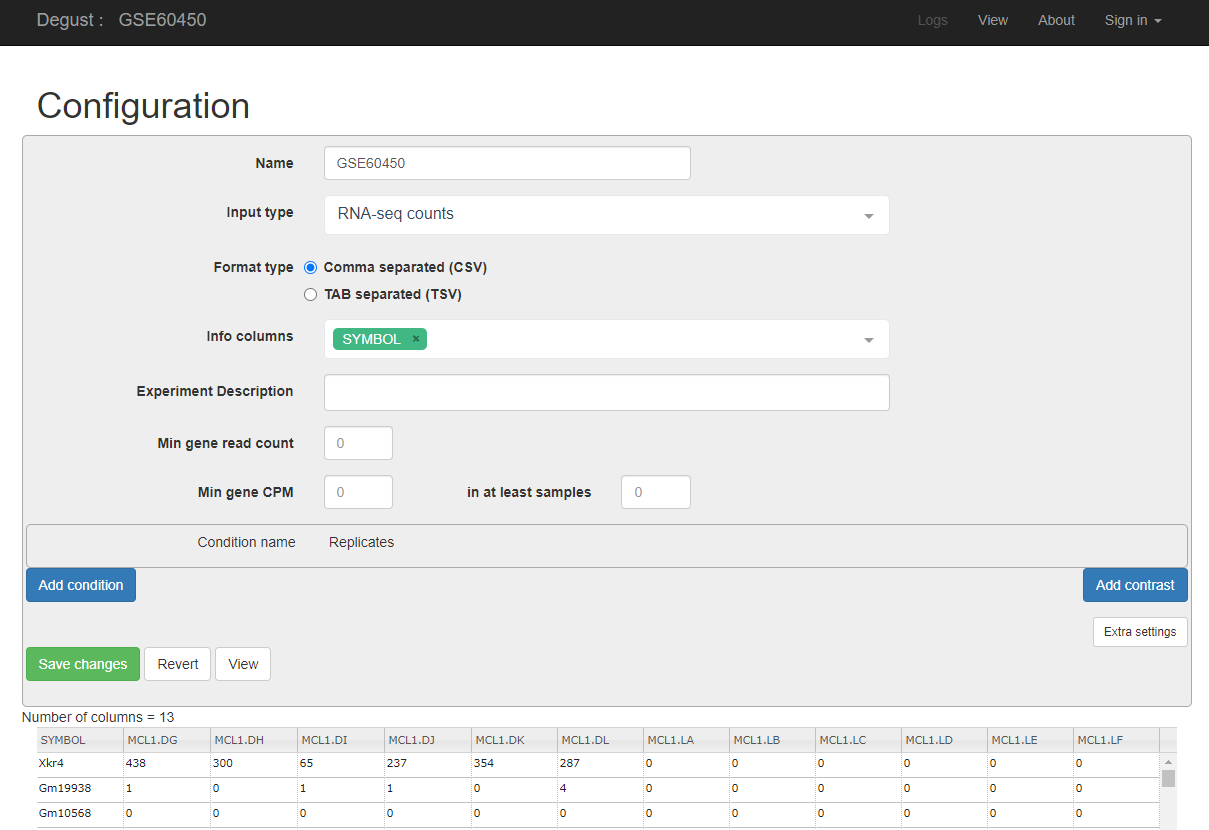
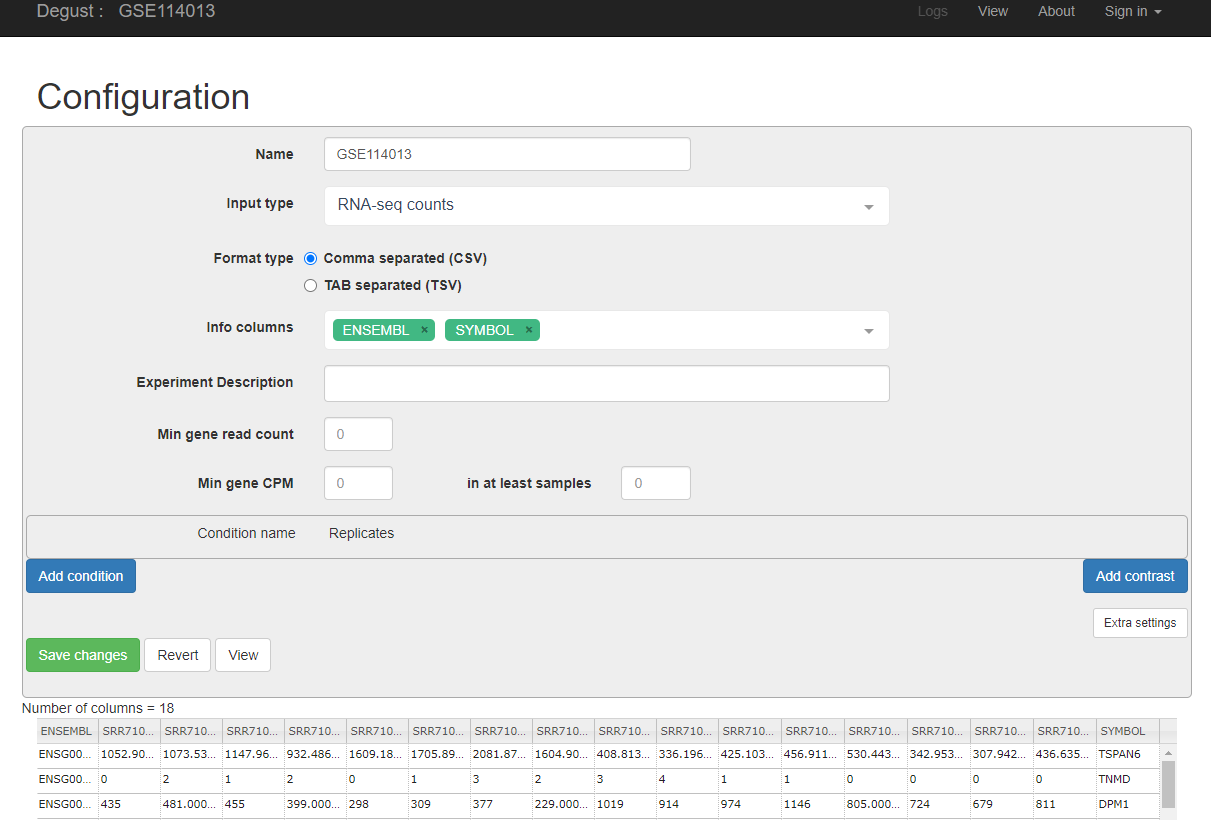
New edits for CRC dataset

diff --git a/03-rna-seq.md b/03-rna-seq.md
@@ -31,6 +31,7 @@ email: [bioinformatics-core@sheffield.ac.uk](bioinformatics-core@sheffield.ac.uk
 
 This tutorial will cover the basics of RNA-seq using Galaxy and Degust; two open-source web-based platforms for the analysis of biological data. You should gain an appreciation of the tasks involved in a typical RNA-seq analysis and be comfortable with the outputs generated by the Bioinformatician.
 
+
 ## Using these notes
 
 <div class="exercise">
@@ -98,8 +99,27 @@ https://drive.google.com/open?id=1ftuBP5L-rcXwsEub2mIaSDJ1tceHYFc7
 
 #### 3.  Import the RNA-seq data for the workshop.
 
-We can going to import the [*fastq* files](https://en.wikipedia.org/wiki/FASTQ_format) for this experiment. This is a standard format for storing raw sequencing reads and their associated quality scores. To make the practical quicker, we have *downsampled* the original fastq files to half a million reads.
+We can going to import the [*fastq* files](https://en.wikipedia.org/wiki/FASTQ_format) for this experiment. This is a standard format for storing raw sequencing reads and their associated quality scores. To make the practical quicker, we have *downsampled* the original fastq files to a quarter of a million reads.
 
+
+run	| name	| cell_line	| condition
+----|-------|-----------|--------- 
+SRR7108388	| HT55_CONT_1	| HT55	| DMSO
+SRR7108389	| HT55_CONT_2	| HT55	| DMSO
+SRR7108390	| HT55_CONT_3	| HT55	| DMSO
+SRR7108391	| HT55_CONT_4	| HT55	| DMSO
+SRR7108392	| HT55_ITRA_1	| HT55	| ITRACONAZOLE
+SRR7108393	| HT55_ITRA_2	| HT55	| ITRACONAZOLE
+SRR7108394	| HT55_ITRA_3	| HT55	| ITRACONAZOLE
+SRR7108395	| HT55_ITRA_4	| HT55	| ITRACONAZOLE
+SRR7108396	| SW948_CONT_1 | SW948	| DMSO
+SRR7108397	| SW948_CONT_2 | SW948	| DMSO
+SRR7108398	| SW948_CONT_3 | SW948	| DMSO
+SRR7108399	| SW948_CONT_4 | SW948	| DMSO
+SRR7108400	| SW948_ITRA_1 | SW948	| ITRACONAZOLE
+SRR7108401	| SW948_ITRA_2 | SW948	| ITRACONAZOLE
+SRR7108402	| SW948_ITRA_3 | SW948	| ITRACONAZOLE
+SRR7108403	| SW948_ITRA_4 | SW948	| ITRACONAZOLE
 
 <div class="information">
 
@@ -111,29 +131,29 @@ You can import the data by:
 
 1.  In the tool panel located on the left, under Basic Tools select **Get Data > Upload File**. Click on the **Choose local file** button on the
     bottom section of the pop-up window.
-2.  Navigate to the `fastq` directory of the zip file that you downloaded from google drive and select these two files are from the basal-virgin condition. 
+2.  Navigate to the `fastq` directory of the zip file that you downloaded from google drive and select these two filesfrom the HT55-DMSO condition. 
 
-`SRR1552444.fastq.gz`
-`SRR1552450.fastq.gz`
+`SRR7108388.fastq.gz`
+`SRR7108389.fastq.gz`
  
- and these two files are from the basal pregnant condition.
+ and these two files are from the HT55 ITRACONAZOLE condition.
 
-`SRR1552452.fastq.gz`
-`SRR1552453.fastq.gz`
+`SRR7108392.fastq.gz`
+`SRR7108393.fastq.gz`
 
 
 3.  You should now have these 4 files in your history:
-    - `SRR1552444.fastq.gz`
-    - `SRR1552450.fastq.gz`
-    - `SRR1552452.fastq.gz`
-    - `SRR1552453.fastq.gz`
+    - `SRR7108388.fastq.gz`
+    - `SRR7108389.fastq.gz`
+    - `SRR7108392.fastq.gz`
+    - `SRR7108393.fastq.gz`
 
 <div class="information">
 The `.gz` at the end of each file name means that it is *compressed* (like a zip file). 
 </div>
 
 
-## Quality assessment with FastQC (Optional)
+### Quality assessment with FastQC (Optional)
 
 [FastQC](https://www.bioinformatics.babraham.ac.uk/projects/fastqc/) is a popular tool from [Babraham Institute Bioinformatics Group](https://www.bioinformatics.babraham.ac.uk/index.html) used for *quality assessment* of sequencing data. Most Bioinformatics pipelines will use FastQC, or similar tools in the first stage of the analysis. The [documentation](https://www.bioinformatics.babraham.ac.uk/projects/fastqc/Help/) for FastQC will help you to interpret the plots and stats produced by the tool. A traffic light system is used to alert the user's attention to possible issues. However, it is worth bearing in mind that the tool is blind to the particular type of sequencing you are performing (i.e. whole-genome, ChIP-seq, RNA-seq), so some warnings might be expected due to the nature of your experiment.
 
@@ -183,7 +203,7 @@ If you also suspect contamination by another organism, or rRNA present in your d
 </div>
 
 
-## Combining QC reports
+### Combining QC reports
 
 It can be quite tiresome to click through multiple QC reports and compare the results for different samples. It is useful to have all the QC plots on the same page so that we can more easily spot trends in the data.
 
@@ -205,7 +225,7 @@ Question: Repeat the FastQC analysis for the remaining fastq files and combine t
 </div>
 
 
-## Section 3: Quantification
+## Section 2: Quantification
 
 We can align our RNA-seq reads to a reference *genome*, and then overlap with know gene coordinates, but many prefer to align directly to the *transcriptome* sequences using a method such as salmon or kallisto. We will demonstrate the salmon protocol.
 
@@ -249,11 +269,16 @@ This time, select only the *Gene Stable ID* tickbox in the GENE box. Expand the 
 
 ### salmon configuration and running
 
+<div class="information">
+**RNA Analysis** -> **Salmon quant**
+</div>
+
+
 - Select the *Homo_sapiens_GRCh38.cdna.all.fa.gz* file as the Transcripts fasta file
 - Select all your uploaded fastq files as your Data Input FASTQ/FASTA file
 - Scroll down *File containing a mapping of transcripts to genes* and select the *mart_export.txt* file
 
-Two jobs will now be queued for each sample fastq file. The Quantification output will contain transcript-level data, and the Gene Quantification output will be at the gene-level. We should expect the number of lines in the Gene Quantification file to be substantially les. If not, you will need to check that your transcript mapping file was correct.
+Two jobs will now be queued for each sample fastq file. The Quantification output will contain transcript-level data, and the Gene Quantification output will be at the *gene-level*. We should expect the number of lines in the Gene Quantification file to be substantially less. If not, you will need to check that your transcript mapping file was correct.
 
 The Gene Quantification output from each sample comprises the following columns:-
 
@@ -290,10 +315,211 @@ After the tool has finished you should have a table with
 - 2nd file: result from *annotateMyIDs on data...*
 - Column to use from 2nd file: Column 1
 
-### Differential Expression using Degust
+## Differential Expression using Degust
 
 Differential expression is possible using Galaxy using the DESeq2 tool (for example). However, our particular recommendation is to use Degust for a more interactive experience. For this section, we will be using counts generated on the full dataset, rather than the downsampled data analysed in the previous section. These counts are available in the file `GSE114013_salmon_counts.csv`.
 
 
 
+
+
+## Differential expression
+
+The term *differential expression* was first used to refer to the process of finding statistically significant genes from a *microarray* gene expression study.
+
+![](media/de_explained.png)
+
+
+Such methods were developed on the premise that microarray expression values are approximately *normally-distributed* when appropriately transformed (e.g. by using a log$_2$ transformation) so that a modified version of the standard *t-test* can be used. The same test is applied to each gene under investigation yielding a *test statistic*, *fold-change* and *p-value*. Similar methods have been adapted to RNA-seq data to account for the fact that the data are *count-based* and do not follow a normal distribution.
+
+
+![](media/rna_advanced_degust_1.png)
+
+<font size="8">[http://degust.erc.monash.edu/](http://degust.erc.monash.edu/)</font>
+
+`Degust` is a web tool that can analyse the counts files produced in the step above, to test for differential gene expression. It offers and interactive view of the differential expression results
+
+The input file is a count matrix where each row is a measured gene, and each column is a different biological sample. Within the tool we can configure which samples belong to the different biological groups of interest.
+
+Read counts have to be normalised first prior to differential expression testing. There are two main biases that need to be accounted for:-
+
+- size of gene
+    + *longer* genes will have more reads assigned to them
+- library size
+    + a sample that is sequenced to a higher depth will receive more reads
+  
+However, R-based methods such as `edgeR` (implemented in Degust) and `DESeq2` have their own method of normalising counts. You will probably encounter other methods of normalising RNA-seq reads such as *RPKM*, *CPM*, *TPM* etc. [This blog](https://www.rna-seqblog.com/rpkm-fpkm-and-tpm-clearly-explained/) provides a nice explanation of the current thinking. As part of the `Degust` output, you have the option of downloading normalised counts in various formats. Some other online visualisation tools require normalised counts as input, so it is good to have these to-hand.
+
+
+### Uploading the count matrix to Degust
+
+
+- From the main degust page, click *Upload your counts file*
+- Click on Browse
+- Select the location of the file `GSE114013_salmon_counts.csv`, and click *Open*.
+- Click *Upload*
+- A Configuration page will appear.
+
+![](media/degust_config.png)
+
+- For Name type "*GSE114013*" (or whatever you want to call the analysis)
+- For Info columns select *SYMBOL*
+- Click Add condition
+    + Referring to the experiment design (below), select the DMSO samples and call the condition DMSO
+    + Repeat for the ITRACONAZOLE samples
+- Save the settings and then View the results
+
+run	| name	| cell_line	| condition
+----|-------|-----------|--------- 
+SRR7108388	| HT55_CONT_1	| HT55	| DMSO
+SRR7108389	| HT55_CONT_2	| HT55	| DMSO
+SRR7108390	| HT55_CONT_3	| HT55	| DMSO
+SRR7108391	| HT55_CONT_4	| HT55	| DMSO
+SRR7108392	| HT55_ITRA_1	| HT55	| ITRACONAZOLE
+SRR7108393	| HT55_ITRA_2	| HT55	| ITRACONAZOLE
+SRR7108394	| HT55_ITRA_3	| HT55	| ITRACONAZOLE
+SRR7108395	| HT55_ITRA_4	| HT55	| ITRACONAZOLE
+SRR7108396	| SW948_CONT_1 | SW948	| DMSO
+SRR7108397	| SW948_CONT_2 | SW948	| DMSO
+SRR7108398	| SW948_CONT_3 | SW948	| DMSO
+SRR7108399	| SW948_CONT_4 | SW948	| DMSO
+SRR7108400	| SW948_ITRA_1 | SW948	| ITRACONAZOLE
+SRR7108401	| SW948_ITRA_2 | SW948	| ITRACONAZOLE
+SRR7108402	| SW948_ITRA_3 | SW948	| ITRACONAZOLE
+SRR7108403	| SW948_ITRA_4 | SW948	| ITRACONAZOLE
+
+
+
+### Overview of Degust sections
+
+- Top black panel with Configure settings at right.
+- Left: Conditions: DMSO and ITRACONAZOLE.
+- Top centre: Plots, with options at right.
+- When either of the expression plots are selected, a heatmap appears below.
+- A table of genes (or features); expression in treatment relative to control (Treatment column); and significance (FDR column).
+
+(**Not that the screenshots are for illustration purposes and taken from a different dataset to that being analysed in the tutorial**)
+
+![](http://sepsis-omics.github.io/tutorials/modules/dge/images/image12.png)
+
+
+### MA-plot
+
+![](media/degust_ma.png)
+
+Each dot shows the change in expression in one gene.
+
+- The average expression (over both condition and treatment samples) is represented on the x-axis.
+    + Plot points should be symmetrical around the x-axis.
+    + We can see that many genes are expressed at a low level, and some are highly expressed.
+- The fold change is represented on the y axis.
+    + If expression is significantly different between batch and chem, the dots are red. If not, they are blue. (In Degust, significant means FDR <0.05).
+    + At low levels of gene expression (low values of the x axis), fold changes are less likely to be significant.
+
+Click on the dot to see the gene name.
+
+### Parallel coordinates and heatmap
+
+![](media/degust_parallel_heatmap.png)
+
+Each line shows the change in expression in one gene, between control and treatment.
+
+- Go to Options at the right.
+    + For FDR cut-off set at 0.001.
+    + This is a significance level (an adjusted p value). We will set it quite low in this example, to ensure we only examine key differences.
+- Look at the Parallel Coordinates plot. There are two axes:
+    + Left: Control: Gene expression in the control samples. All values are set at zero.
+    + Right: Treatment Gene expression in the treatment samples, relative to expression in the control.
+- The blocks of blue and red underneath the plot are called a heatmap.
+    + Each block is a gene. Click on a block to see its line in the plot above.
+    + Look at the row for the chem. Relative to batch, genes expressed more are red; genes expressed less are blue.
+
+### Table of genes
+
+![](media/degust_gene_table.png)
+
+Table of genes
+
+- gene_id: names of genes. Note that gene names are sometimes specific to a species, or they may be only named as a locus ID (a chromosomal location specified in the genome annotation).
+- FDR: False Discovery Rate. This is an adjusted p value to show the significance of the difference in gene expression between two conditions. Click on column headings to sort. By default, this table is sorted by FDR.
+- basal and luminal: log2(Fold Change) of gene expression. The default display is of fold change in the treatment relative to the control. Therefore, values in the batch column are zero. This can be changed in the Options panel at the top right.
+    + In some cases, a large fold change will be meaningful but in others, even a small fold change can be important biologically.
+
+The table can be sorted according to any of the columns (e.g. fold-change or p-value)
+
+
+### Download and R code
+
+Above the genes table is the option to download the results of the current analysis to a csv file. You can also download the *R* code required to reproduce the analysis by clicking the *Show R code* box underneath the Options box.
+
+Plots such as the MDS, MA and heatmap can also be exported by right-clicking on the plot.
+
+
+### MDS plot
+
+This is a multidimensional scaling plot which represents the variation between samples. It is a similar concept to a Principal Components Analysis (PCA) plot. The x-axis is the dimension with the highest magnitude. In a standard control/treatment setup, samples should be split along this axis. A desirable plot is shown below:-
+
+![](media/degust_mds.png)
+
+### Exercise
+
+<div class="exercise">
+**Question:** It seems that the differential expression analysis is detecting lots of genes. However, does this tell the whole story about the dataset? What do you think is the main factor separating samples on the x-axis, and thus explaning the most variation in the data?
+
+</div>
+
+
+
+## Modifying the analysis
+
+We will now repeat the analysis, but only for samples from the *HT55* cell-line. The correct configuration for this analysis is shown below:-
+
+![](media/degust_ht55.PNG)
+
+<div class="exercise">
+**Exercise**: How many genes are differentially-expressed with an FDR < 0.05 and abs logFC > 1. Download this file and rename it to `HT55.ITRACONAZOLE_vs_DMSO.csv`.
+</div>
+
+<div class="exercise">
+**Exercise**: Repeat the analysis for SW948 samples and download the table of differentially-expressed results (same FDR and log fold-change) to `SW948.ITRACONAZOLE_vs_DMSO.csv`
+</div>
+
+<div class="exercise">
+**Exercise:** Rest the FDR cut-off and abs LogFC cutoffs back to default and *download* the file and rename to `background.csv`. We will use this later.
+</div>
+
+### File Downloads
+
+<div class="information">
+If you didn't manage to complete these analyses, you can download the files from here by right-clicking on each link and selecting "Save Link as" (or equivalent). They are also available in the course google drive.
+
+- [HT55.ITRACONAZOLE_vs_DMSO.csv](HT55.ITRACONAZOLE_vs_DMSO.csv)
+- [SW948.ITRACONAZOLE_vs_DMSO.csv](SW948.ITRACONAZOLE_vs_DMSO.csv)
+- [background.csv](background.csv)
+
+</div>
+
+### Overlapping Gene Lists
+
+![](https://upload.wikimedia.org/wikipedia/en/e/e4/Venn_stained_glass.jpg)
+
+We might sometimes want to compare the lists of genes that we identify using different methods, or genes identified from more than one contrast. In our example dataset we can compare the genes in the contrast of ITRACONAZOLE vs DMSO in HT55 and SW948 cells
+
+The website *venny* provides a really nice interface for doing this.
+
+![](media/venny-config.png)
+
+- Open both your *HT55: ITRACONAZOLE vs DMSO* and *SW948: ITRACONAZOLE vs DMSO* results files in Excel
+- Go to the venny website
+    + http://bioinfogp.cnb.csic.es/tools/venny/
+- Copy the names of genes with adjusted p-value less than 0.05 in the HT55 analysis into the **List 1** box on the venny website. **List 1** can be renamed to *HT55*
+    + *You can select all entries in a column with the shortcut CTRL + SPACE*
+- Copy the names of genes with adjusted p-value less than 0.05 in the SW948 analysis into the **List 2** box on the venny website. **List 2** can be renamed to **SW948**
+- venny should now report the number of genes found in each list, the size of the intersection, and genes unique to each method
+
+### Refined analysis
+
+The final analysis we will perform is to include all the samples, but correct for the differences in cell-line. This is achieved by telling Degust about the *hidden factors* in our dataset.
+
+You are now ready to complete the final section on [annotation and enrichment analysis](03-enrichment.nb.html)
 
